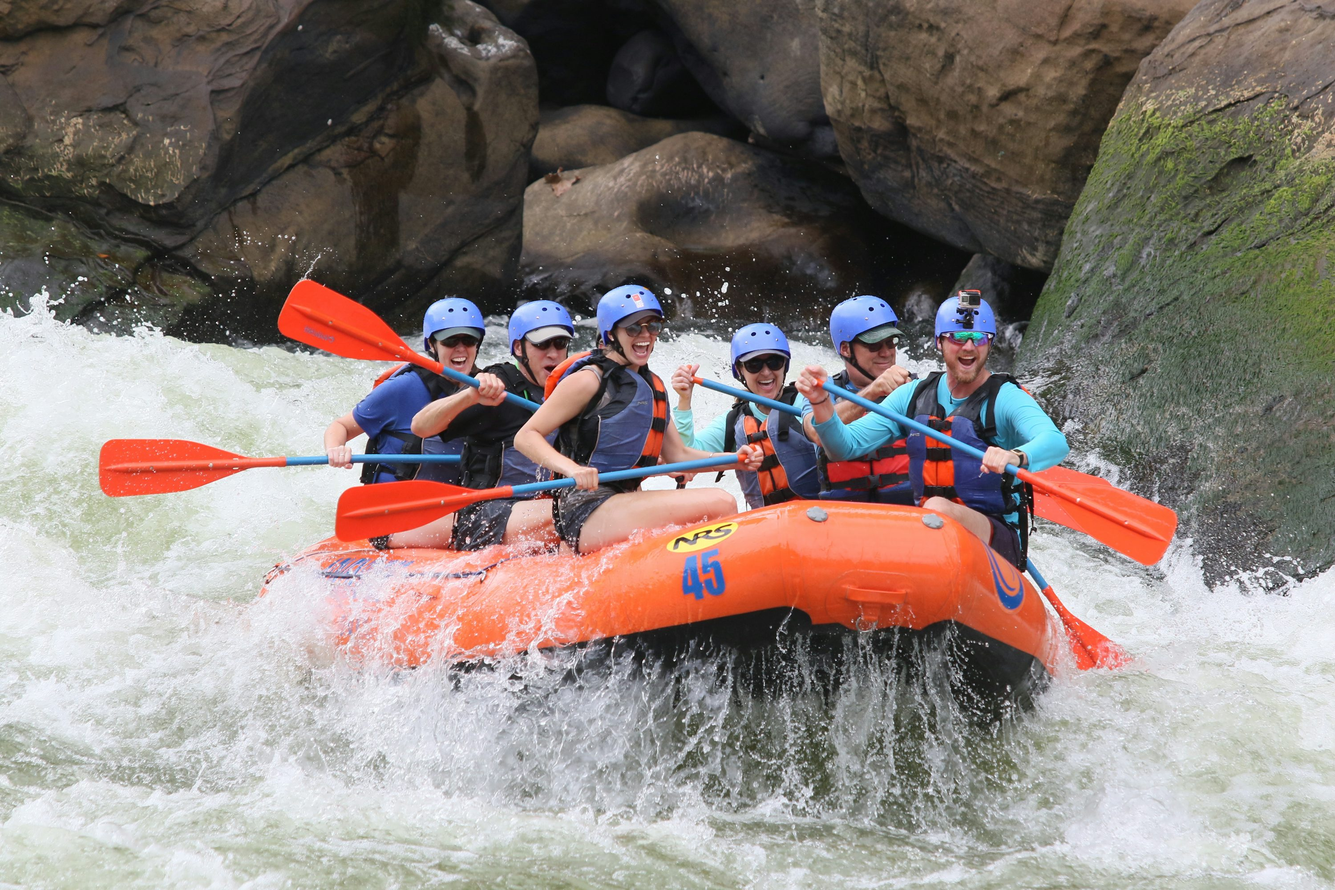
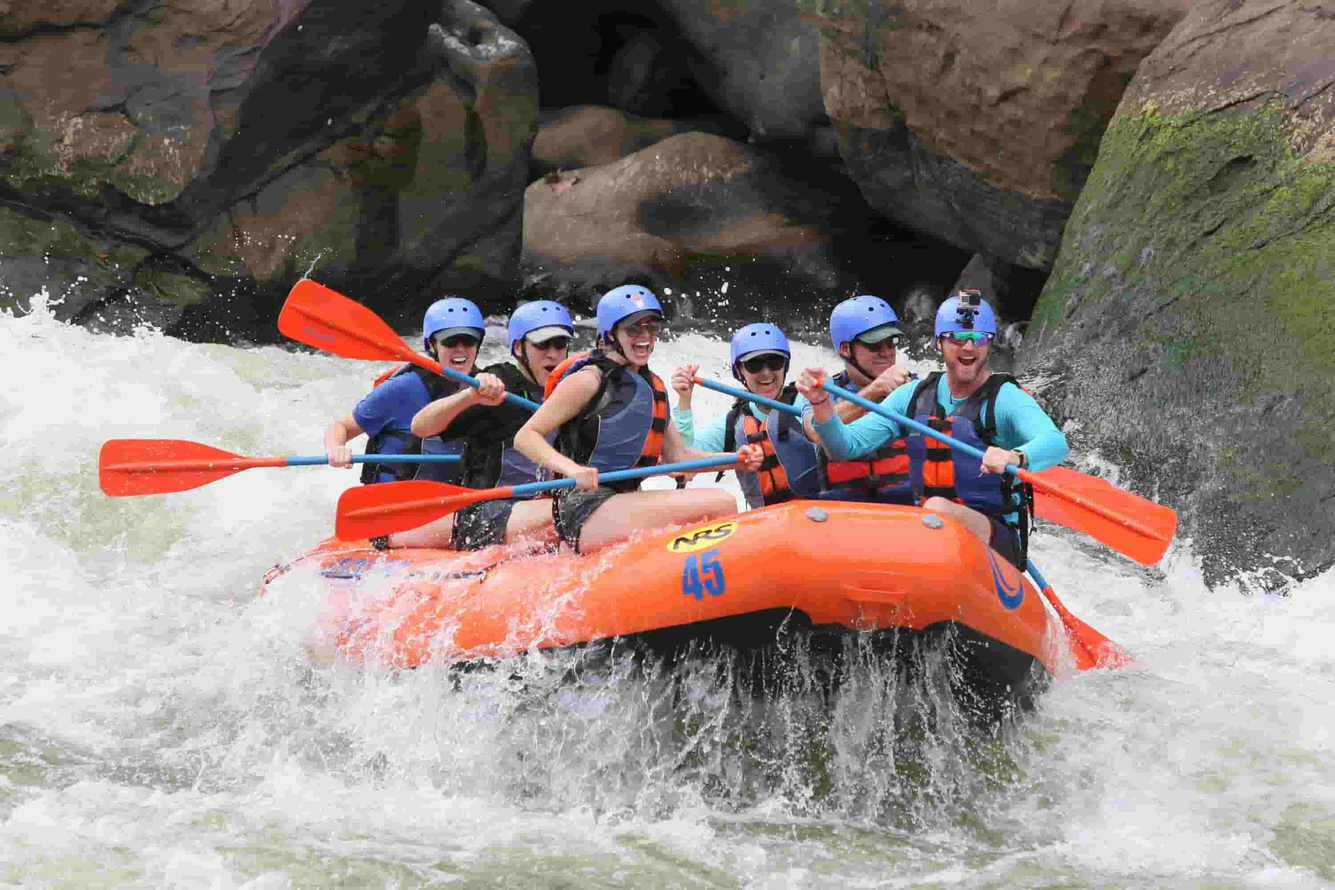
wdd130

diff --git a/wwr/about.html b/wwr/about.html
@@ -29,7 +29,7 @@
         
         <div id="hero" class="hero">
             <div id="hero-box">
-                <img id="hero-img" src="images/hero.png" alt="People enjoying white water rafting">
+                <img id="hero-img" src="images/hero.jpg" alt="People enjoying white water rafting">
             </div>
             <article>
                 <h1 class="home-title">Have An Adventure</h1>
@@ -70,7 +70,7 @@
                         <figcaption>Mountains</figcaption>
                     </figure>   
                     <figure>
-                        <img src="images/Valley.jpeg" alt="valleys">
+                        <img src="images/Valley.jpg" alt="valleys">
                         <figcaption>Valleys</figcaption>
                     </figure>           
                 </div>
